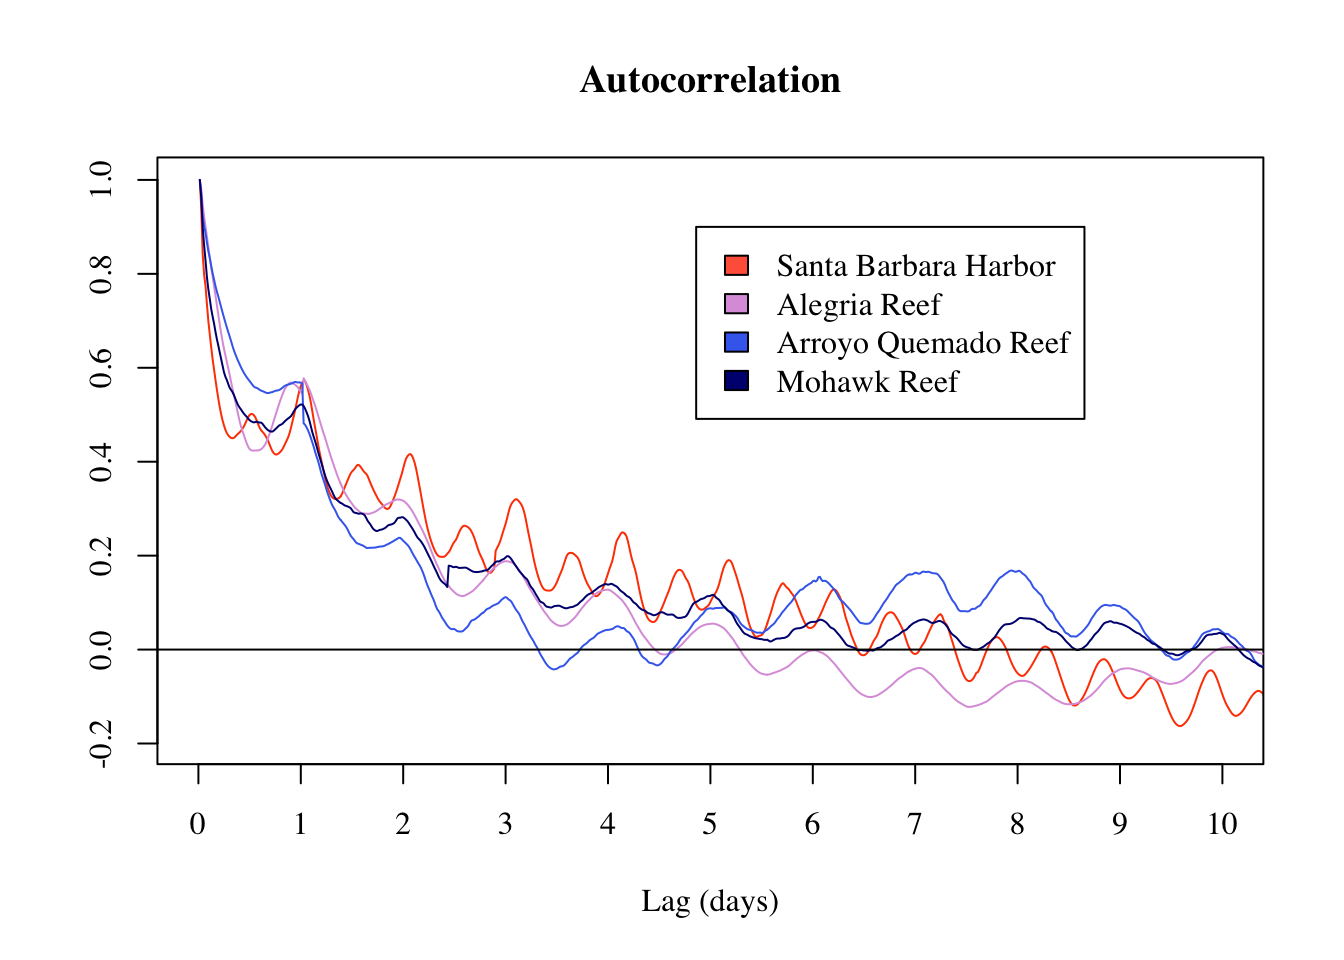
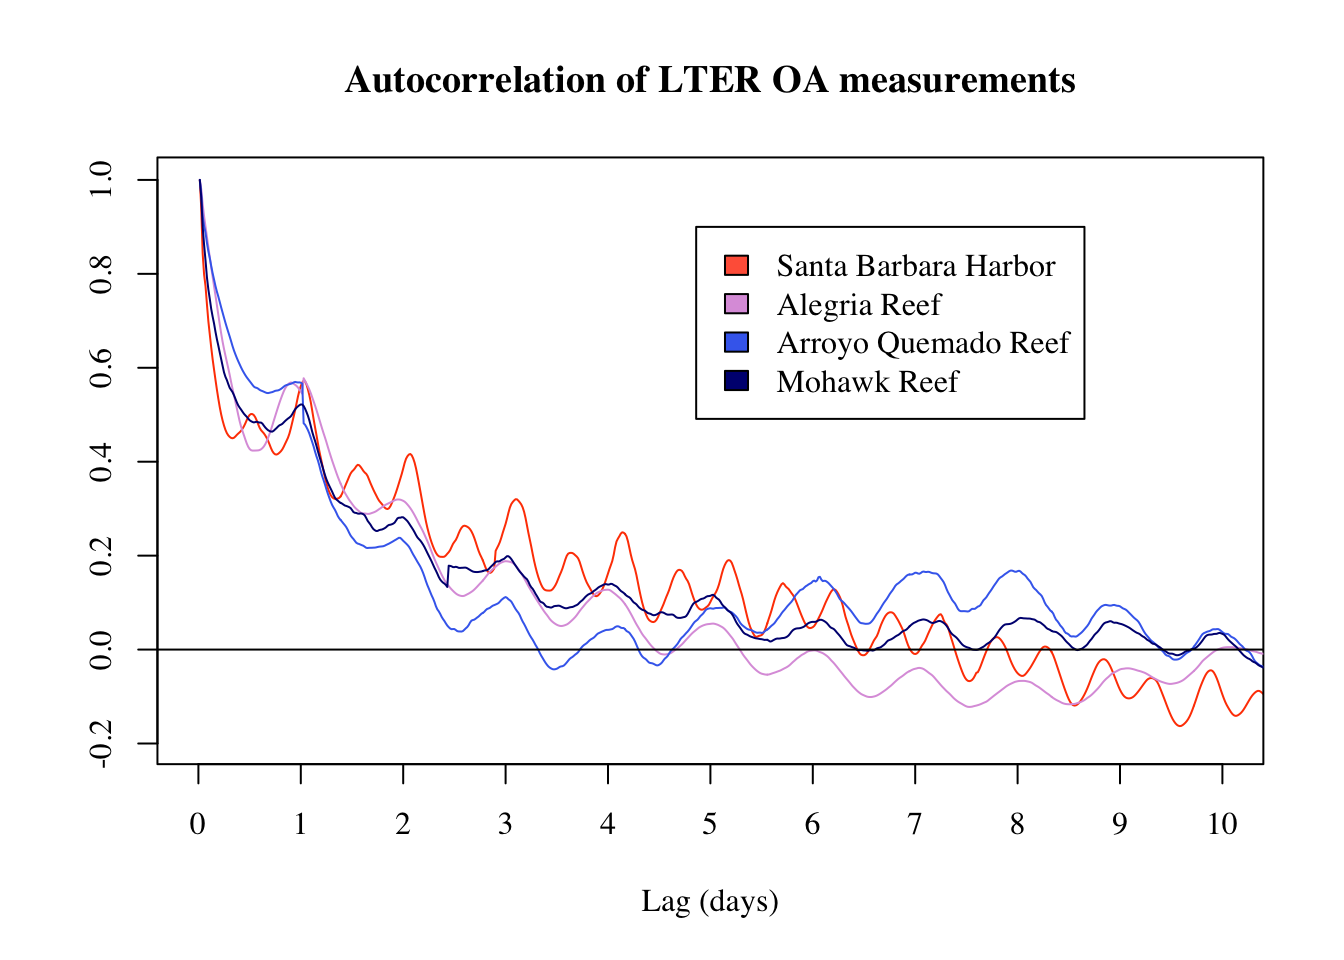
website maps

Changed region(s): [[0.25, 0.0625, 0.8125, 0.0938]]

diff --git a/LTERanalysis.html b/LTERanalysis.html
@@ -346,8 +346,8 @@ $(document).ready(function () {
 <div id="introduction" class="section level2">
 <h2>Introduction</h2>
 <p>In the Santa Barbara Channel sub-region of the California Current, aragonite saturation is currently monitored a relatively fine spatial and temporal scale, through the Santa Barbara Coastal Long Term Ecological Research Project (SBC LTER), run by the National Science Foundation, and housed at the University of California, Santa Barbara. The SBC LTER runs four sites that collect aragonite saturation state every twenty minutes, spread across a distance of 50 miles from the Santa Barbara Pier westward to the Gaviota Coast. These sensors are located at the Santa Barbara Pier, Mohawk Reef, Alegria Reef, and Arroyo Quemado Reef (figure 1). As part of the ongoing effort to establish a cohesive OA monitoring network, this project aims to characterize autocorrelation and covariance in the SBC LTER aragonite measurements. This analysis help gain understanding of the spatial and temporal scale of autocorrelation and establish reference points for how frequently aragonite should be measured in coastal environments and how great the distance between measurements can be without losing valuable information between data collection locations. Results help inform future management decisions in how to design an ideal OA monitoring network and how to improve the network that exists today.</p>
-<div id="htmlwidget-c987a7b8ada134a17826" style="width:672px;height:480px;" class="leaflet html-widget"></div>
-<script type="application/json" data-for="htmlwidget-c987a7b8ada134a17826">{"x":{"options":{"crs":{"crsClass":"L.CRS.EPSG3857","code":null,"proj4def":null,"projectedBounds":null,"options":{}}},"calls":[{"method":"addProviderTiles","args":["Esri.OceanBasemap",null,null,{"errorTileUrl":"","noWrap":false,"detectRetina":false}]},{"method":"addCircleMarkers","args":[[34.40934,34.39323,34.46495,34.4617],[-119.685,-119.73,-120.12,-120.29],6,null,null,{"interactive":true,"className":"","stroke":false,"color":"#03F","weight":7,"opacity":0.5,"fill":true,"fillColor":"#03F","fillOpacity":0.5},null,null,["Site:  Stearns Wharf/Santa Barbara Harbor (SBH)","Site:  Mohawk (MKO)","Site:  Arroyo Quemado Reef (ARQ)","Site:  Alegria (ALE)"],null,null,{"interactive":false,"permanent":false,"direction":"auto","opacity":1,"offset":[0,0],"textsize":"10px","textOnly":false,"className":"","sticky":true},null]}],"setView":[[34.42,-120],10,[]],"limits":{"lat":[34.39323,34.46495],"lng":[-120.29,-119.685]}},"evals":[],"jsHooks":[]}</script>
+<div id="htmlwidget-65dabb1ed12adb5e1799" style="width:672px;height:480px;" class="leaflet html-widget"></div>
+<script type="application/json" data-for="htmlwidget-65dabb1ed12adb5e1799">{"x":{"options":{"crs":{"crsClass":"L.CRS.EPSG3857","code":null,"proj4def":null,"projectedBounds":null,"options":{}}},"calls":[{"method":"addProviderTiles","args":["Esri.OceanBasemap",null,null,{"errorTileUrl":"","noWrap":false,"detectRetina":false}]},{"method":"addCircleMarkers","args":[[34.40934,34.39323,34.46495,34.4617],[-119.685,-119.73,-120.12,-120.29],6,null,null,{"interactive":true,"className":"","stroke":false,"color":"#03F","weight":7,"opacity":0.5,"fill":true,"fillColor":"#03F","fillOpacity":0.5},null,null,["Site:  Stearns Wharf/Santa Barbara Harbor (SBH)","Site:  Mohawk (MKO)","Site:  Arroyo Quemado Reef (ARQ)","Site:  Alegria (ALE)"],null,null,{"interactive":false,"permanent":false,"direction":"auto","opacity":1,"offset":[0,0],"textsize":"10px","textOnly":false,"className":"","sticky":true},null]}],"setView":[[34.42,-120],10,[]],"limits":{"lat":[34.39323,34.46495],"lng":[-120.29,-119.685]}},"evals":[],"jsHooks":[]}</script>
 </div>
 <div id="step-1.-setup" class="section level2">
 <h2>Step 1. Setup</h2>
@@ -603,7 +603,12 @@ acf_sbh_final &lt;- rowMeans(acf_sbh_tot, na.rm = TRUE)</code></pre>
 <h4>Plot autocorrelation for all four sites</h4>
 <p>Here we see that decorrelation scales decrease towards the eastern end of the Santa Barbara Channel. Alegria Reef and Arroyo Quemado are closest to Point Conception and have the shortest decorrelation time scales, whereas Santa Barbara Harbor and Mohawk are further East in the Channel and had the longest decorrelation time scale.</p>
 <p>A main conclusion from this analysis is that the SBC LTER sites are adequately capturing temporal changes in OA with their 20 minute sampling intervals. Results from the autocorrelation analysis reveal that study sites closer to Point Conception have shorter decorrelation time scales as compared to sites further east in the Santa Barbara Channel. This may mean that the Central Coast, which is more exposed and has fewer geographic features, has shorter decorrelation time scales than the California Bight, and thus monitoring locations outside of the Bight should ideally collect OA data more frequently than locations in the Bight.</p>
-<pre class="r"><code>plot(acf_sbh_final, type = &quot;l&quot;, xaxt = &quot;n&quot;, xlab=&#39;Lag (days)&#39;, main = &#39;Autocorrelation&#39;, ylab = &#39;&#39;, col = &quot;orangered&quot;, xlim = c(0,720), family = &quot;serif&quot;)   
+<pre class="r"><code>#commands to save plots are commented out
+#png(&#39;autocorrelation.png&#39;, width = 7, height = 5, units = &#39;in&#39;, res = 500)
+#setwd(&quot;/Users/raetaylor-burns/downloads&quot;)
+#autocorrelation &lt;- 
+  
+  plot(acf_sbh_final, type = &quot;l&quot;, xaxt = &quot;n&quot;, xlab=&#39;Lag (days)&#39;, main = &#39;Autocorrelation of LTER OA measurements&#39;, ylab = &#39;&#39;, col = &quot;orangered&quot;, xlim = c(0,720), family = &quot;serif&quot;) 
 lines(acf_ale_final, col = &quot;plum&quot;)  
 lines(acf_arq_final, col = &quot;royalblue2&quot;)    
 lines(acf_mko_final, col = &quot;navyblue&quot;)  
@@ -612,6 +617,7 @@ op &lt;- par(family = &quot;serif&quot;)
 legend(350, 0.9, legend = c(&quot;Santa Barbara Harbor&quot;, &quot;Alegria Reef&quot;, &quot;Arroyo Quemado Reef&quot;, &quot;Mohawk Reef&quot;), fill = c(&quot;tomato&quot;, &quot;plum&quot;, &quot;royalblue2&quot;, &quot;navyblue&quot;))    
 axis(1, at=72*(0:10), labels = 1*(0:10), family = &quot;serif&quot;)  </code></pre>
 <p><img src="LTERanalysis_files/figure-html/plot%20autocorrelation-1.png" width="672" /></p>
+<pre class="r"><code>#dev.off()</code></pre>
 </div>
 </div>
 <div id="step-3.-correlation-between-lter-sites" class="section level2">

diff --git a/gap_manuscript.html b/gap_manuscript.html
@@ -750,7 +750,7 @@ highfreqgap&lt;-((aragrange)^2*sqrt((highfreqdistance)^2+(weight*highfreqoceanog
 </div>
 <div id="map-gaps" class="section level4">
 <h4>Map Gaps</h4>
-<p><img src="gap_manuscript_files/figure-html/map%20gaps-1.png" width="672" style="display: block; margin: auto;" /><img src="gap_manuscript_files/figure-html/map%20gaps-2.png" width="672" style="display: block; margin: auto;" /><img src="gap_manuscript_files/figure-html/map%20gaps-3.png" width="672" style="display: block; margin: auto;" /><img src="gap_manuscript_files/figure-html/map%20gaps-4.png" width="672" style="display: block; margin: auto;" /></p>
+<p><img src="gap_manuscript_files/figure-html/map%20gaps-1.png" width="25%" /><img src="gap_manuscript_files/figure-html/map%20gaps-2.png" width="25%" /><img src="gap_manuscript_files/figure-html/map%20gaps-3.png" width="25%" /><img src="gap_manuscript_files/figure-html/map%20gaps-4.png" width="25%" /></p>
 </div>
 </div>
 
